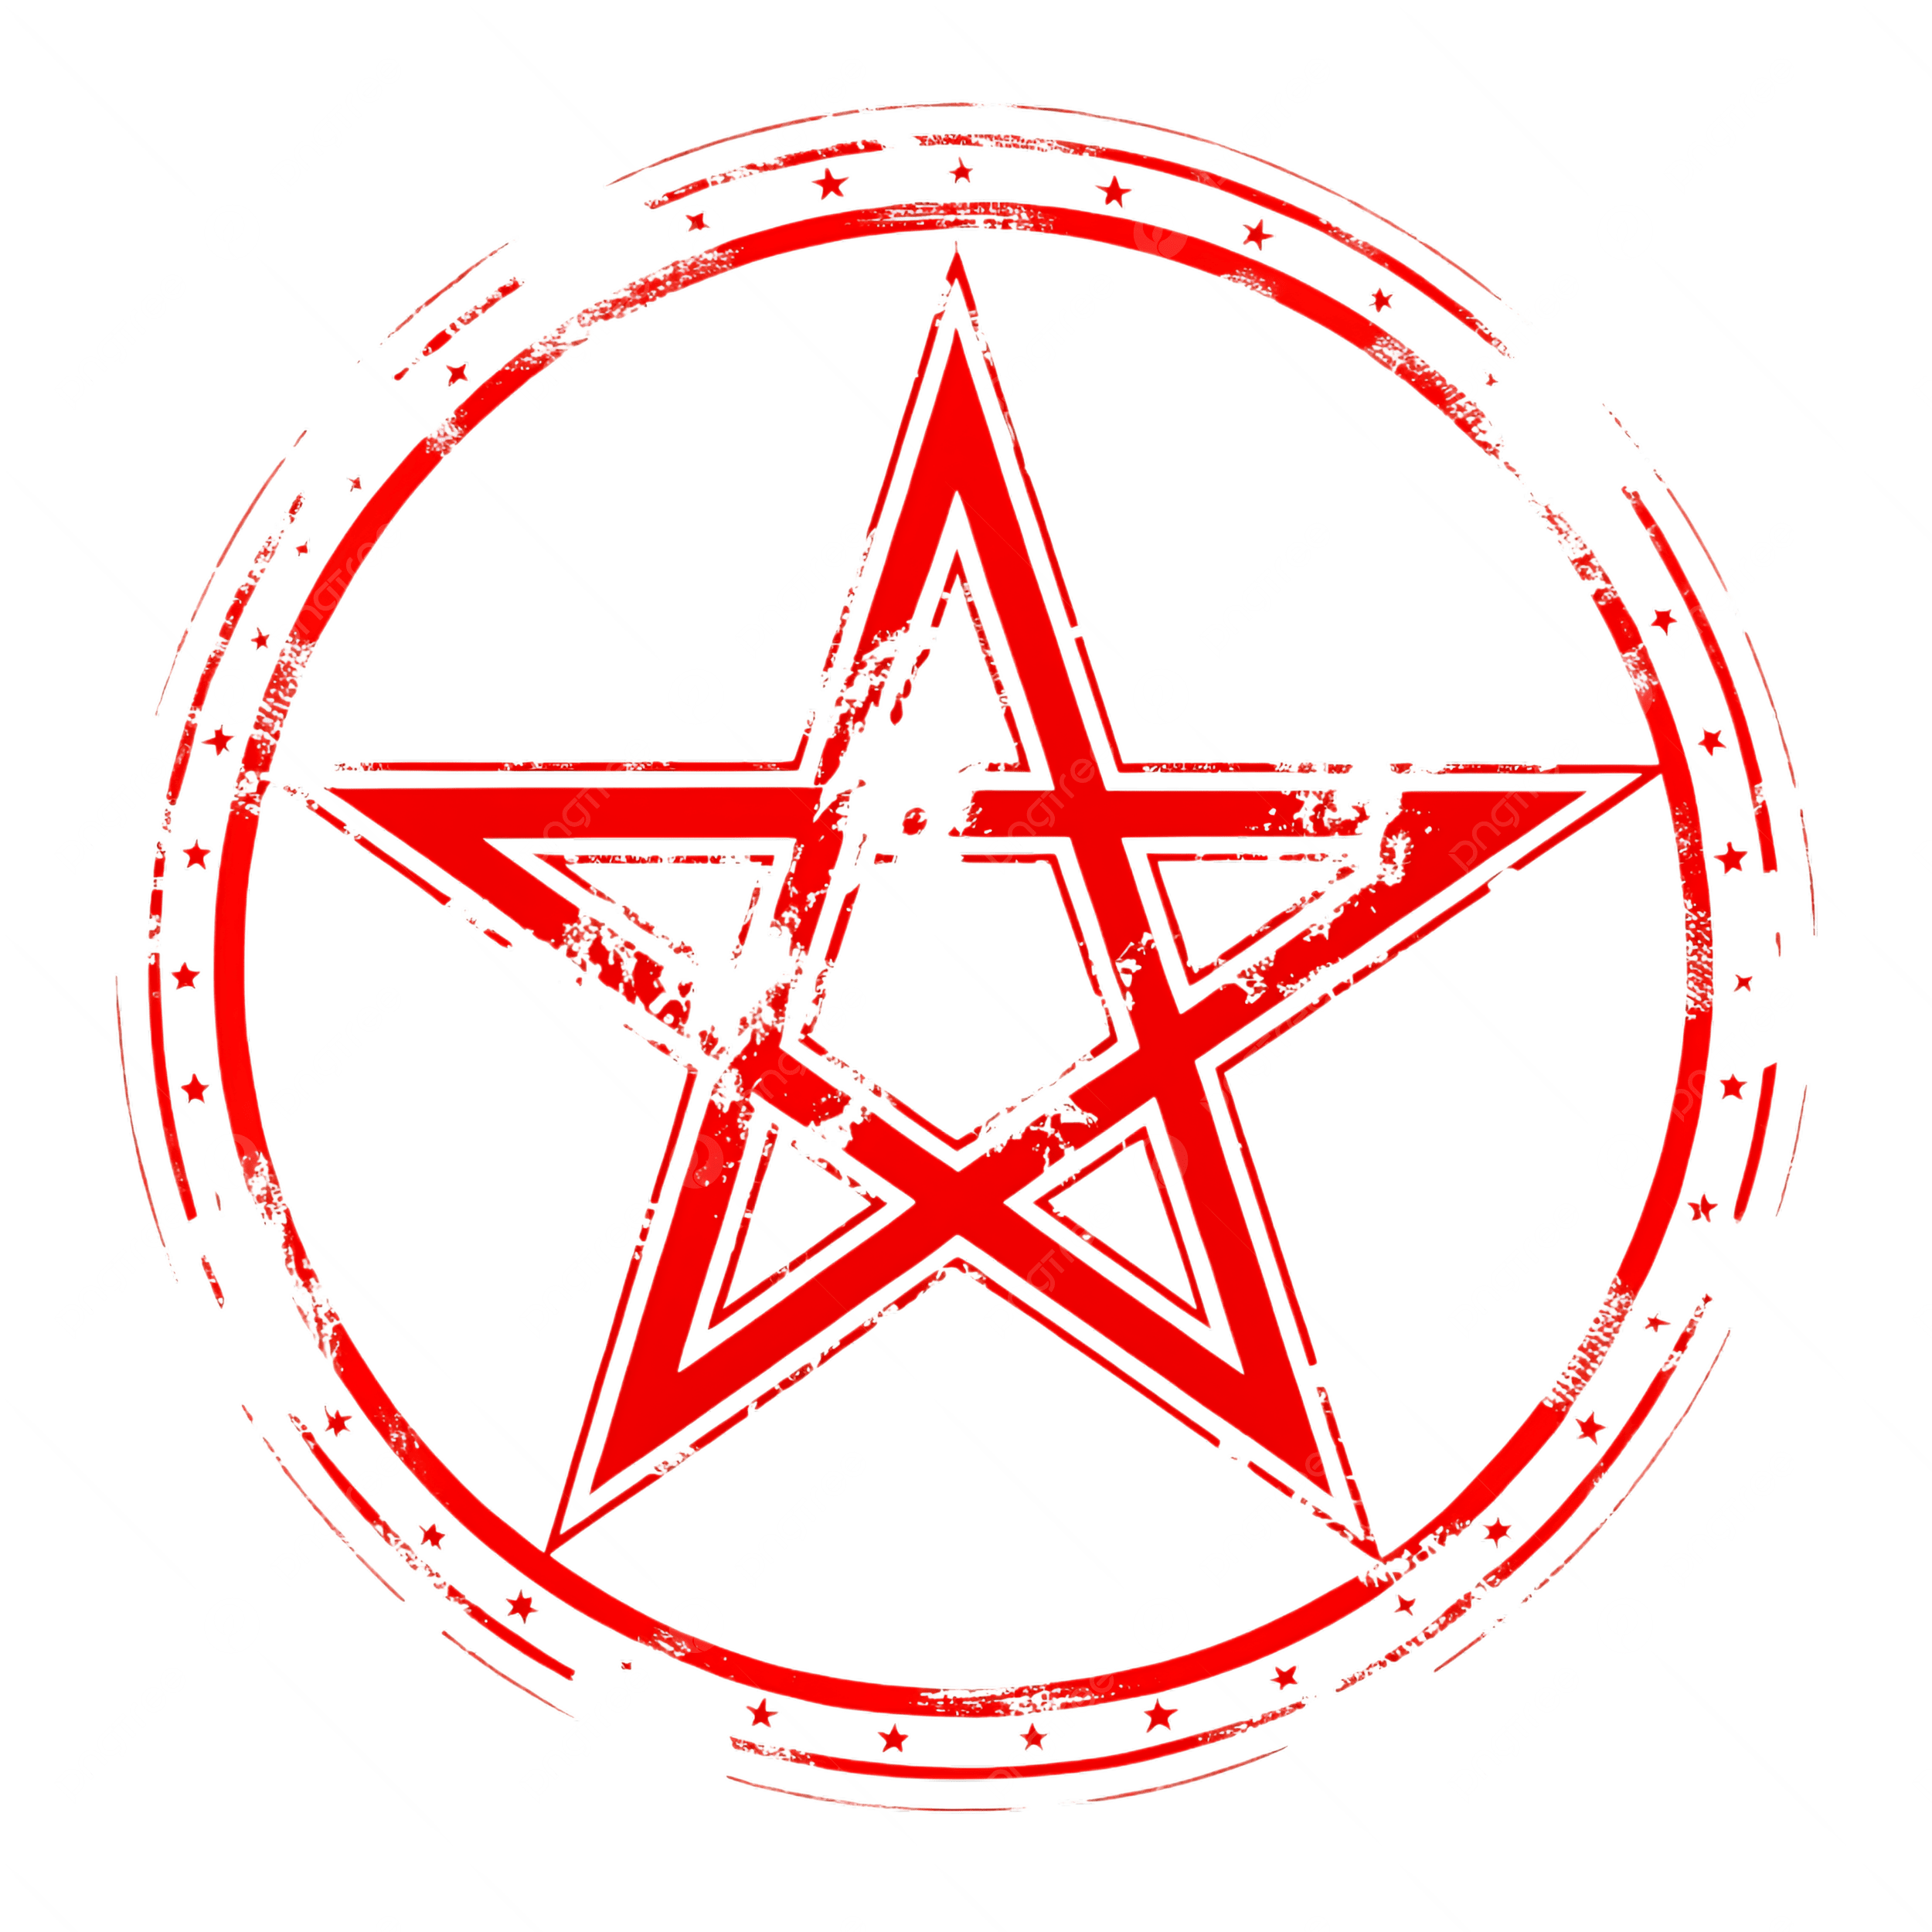
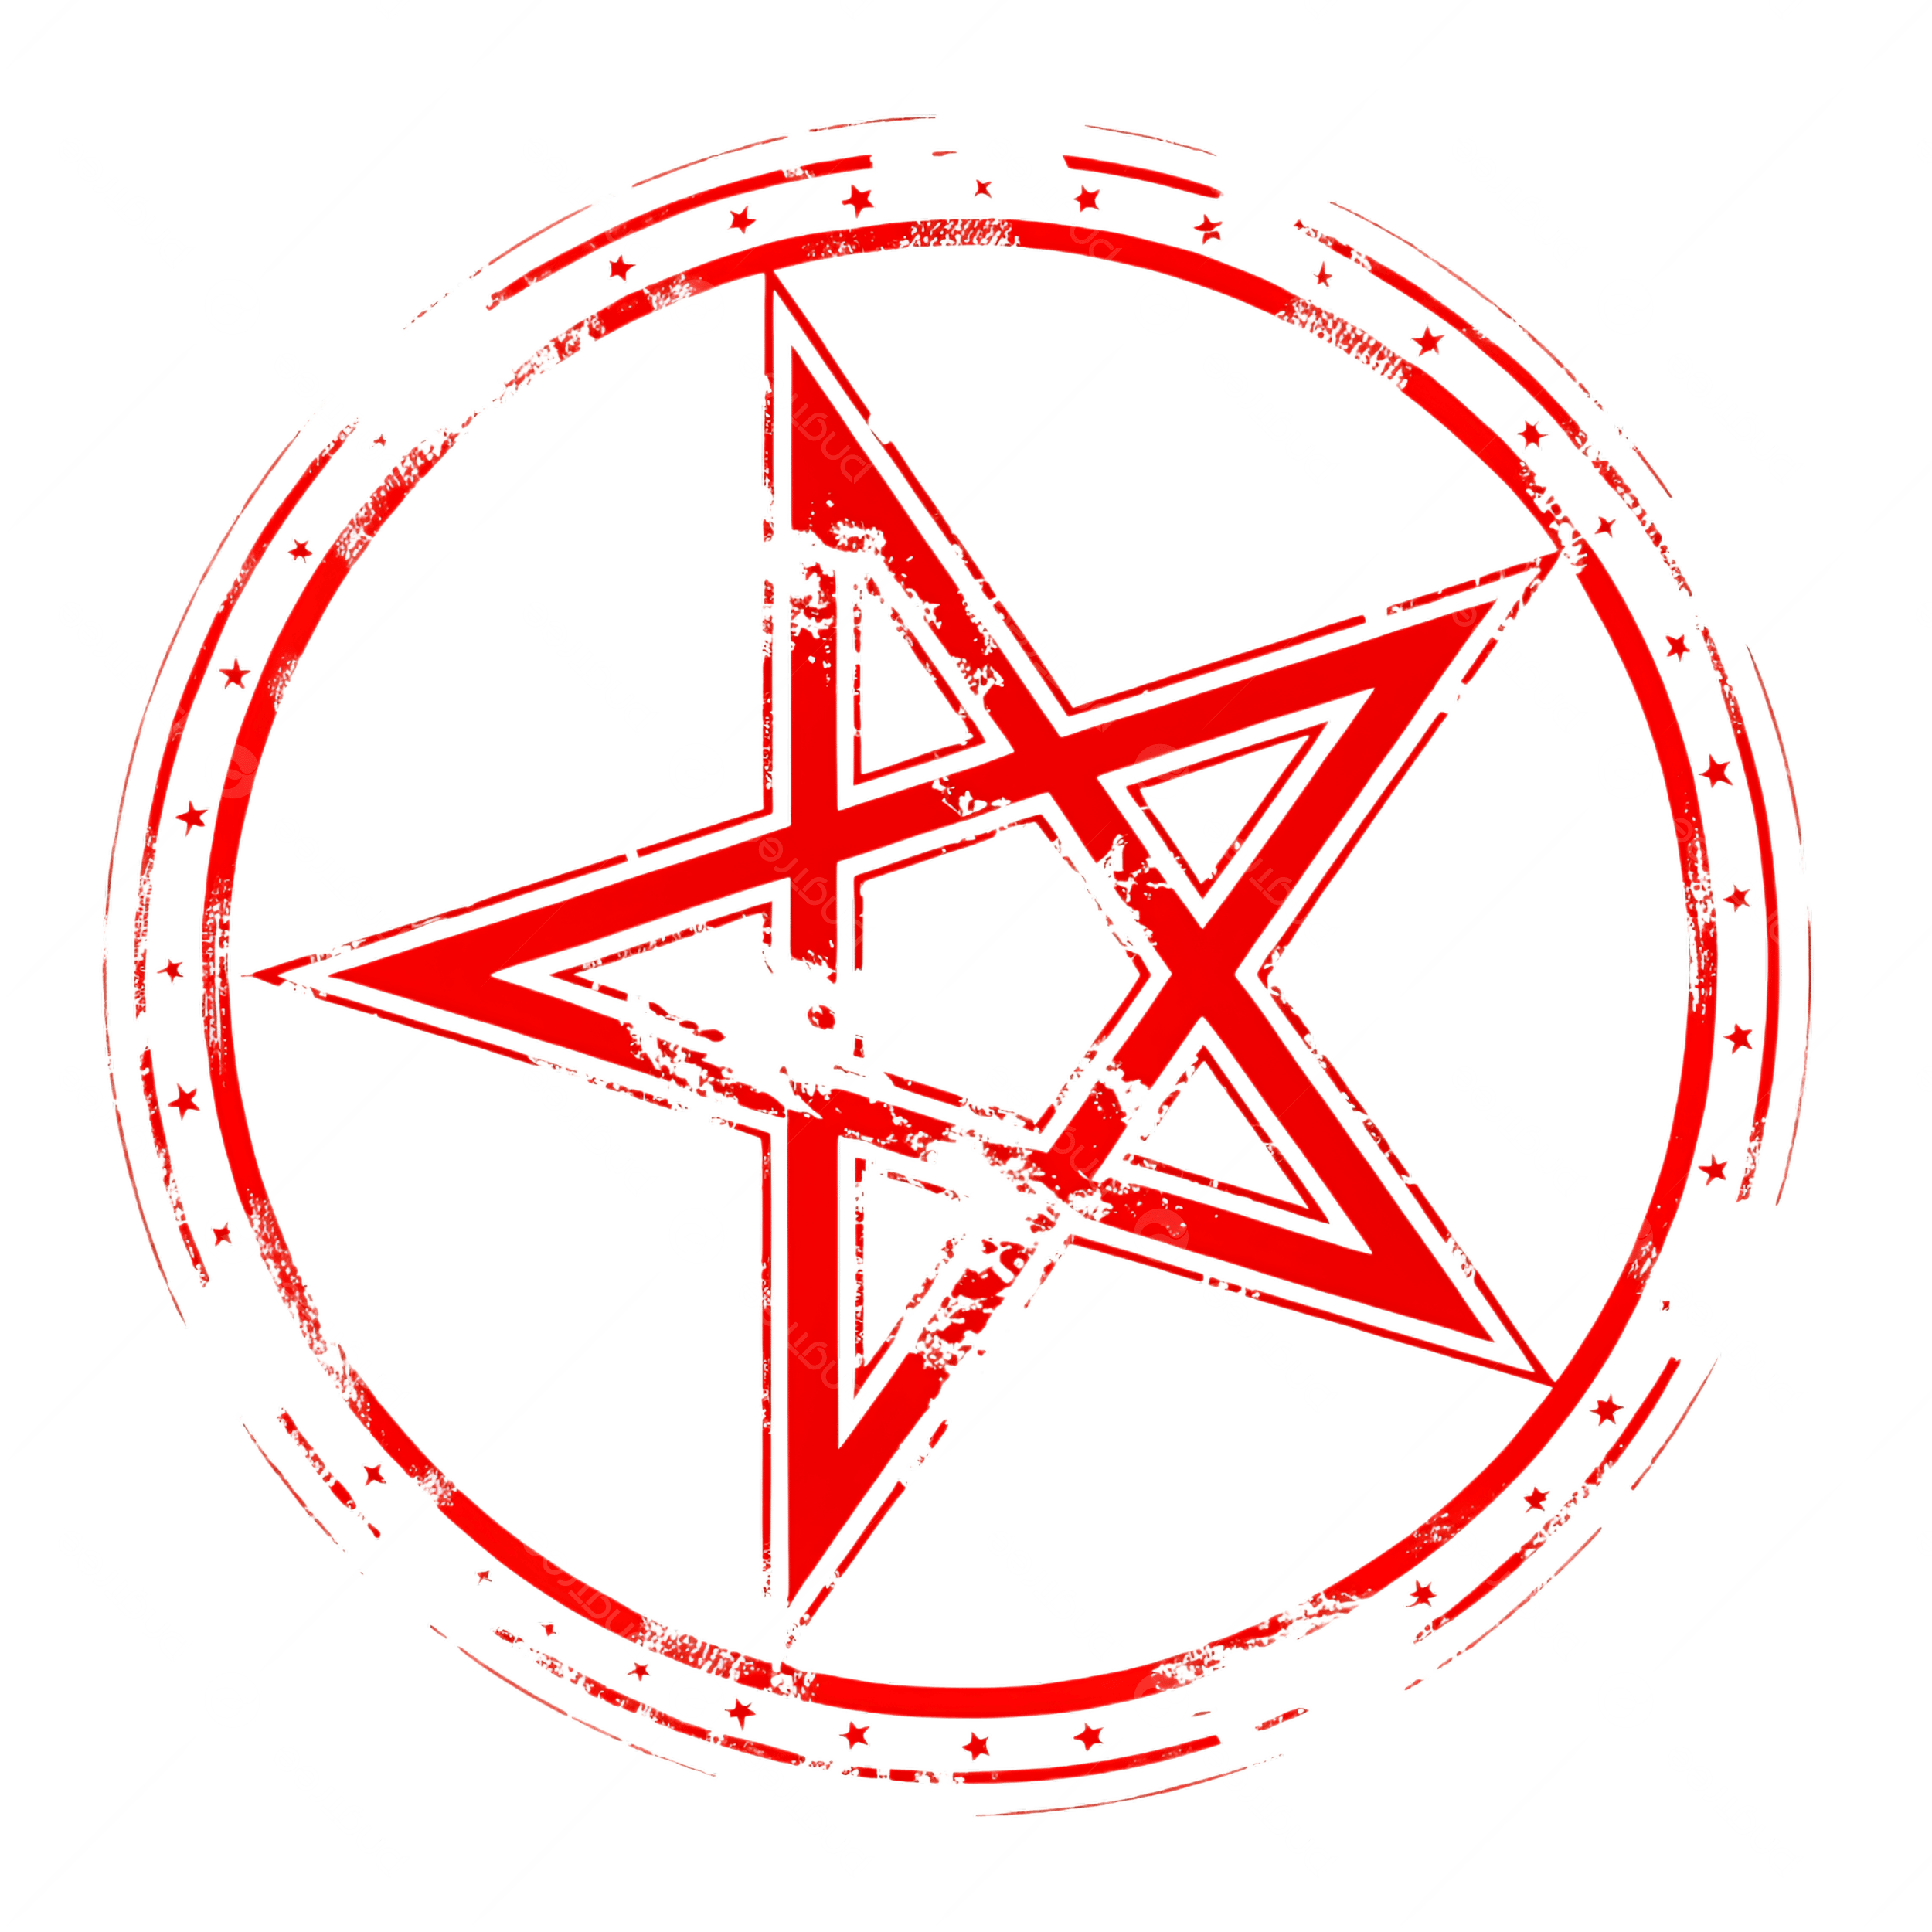
feat: ajustes relacionados ao header

Changed region(s): [[0.0312, 0.0624, 0.936, 0.936]]

diff --git a/index.html b/index.html
@@ -1,19 +1,20 @@
 <!doctype html>
-<html lang="en">
+  <html lang="en">
+
   <head>
     <meta charset="UTF-8" />
     <link rel="icon" href="/src/assets/favicon.ico" />
     <link rel="preconnect" href="https://fonts.googleapis.com" />
     <link rel="preconnect" href="https://fonts.gstatic.com" crossorigin />
-    <link
-      href="https://fonts.googleapis.com/css2?family=Inter:wght@300;400;600&family=Metal+Mania&display=swap"
-      rel="stylesheet"
-    />
+    <link href="https://fonts.googleapis.com/css2?family=Inter:wght@300;400;600&family=Metal+Mania&display=swap"
+      rel="stylesheet" />
     <meta name="viewport" content="width=device-width, initial-scale=1.0" />
     <title>aeternus | portfolio</title>
   </head>
+
   <body>
     <div id="root"></div>
     <script type="module" src="/src/main.jsx"></script>
   </body>
+
 </html>

diff --git a/src/components/Header/Header.jsx b/src/components/Header/Header.jsx
@@ -22,8 +22,8 @@ export default function Header({ onCopyEmail }) {
         <div className="brand">
           <span className="sigil" aria-hidden="true" />
           <div className="brandText">
-            <div className="name">AETERNUS</div>
-            <div className="role">C# • Angular • GameDev</div>
+            <div className="name">Luan Victor (AETERNUS)</div>
+            <div className="role">C Sharp • Angular/React • GameDev</div>
           </div>
         </div>
 

diff --git a/src/components/About/About.jsx b/src/components/About/About.jsx
@@ -7,7 +7,7 @@ export default function About() {
       <div className="card">
         <h2 className="h2">Sobre</h2>
         <p className="p">
-          Trabalho com aplicações web (Angular + C#) e desenvolvimento de jogos (Unity/Godot/GameMaker). Busco código
+          Trabalho com aplicações web (Angular + Primeng) e desenvolvimento de jogos (Unity/Godot/GameMaker). Busco código
           previsível, componentes reutilizáveis e pipelines simples.
         </p>
         <p className="p dim">Ajuste este texto para: anos de experiência, empresas, nicho e foco atual.</p>